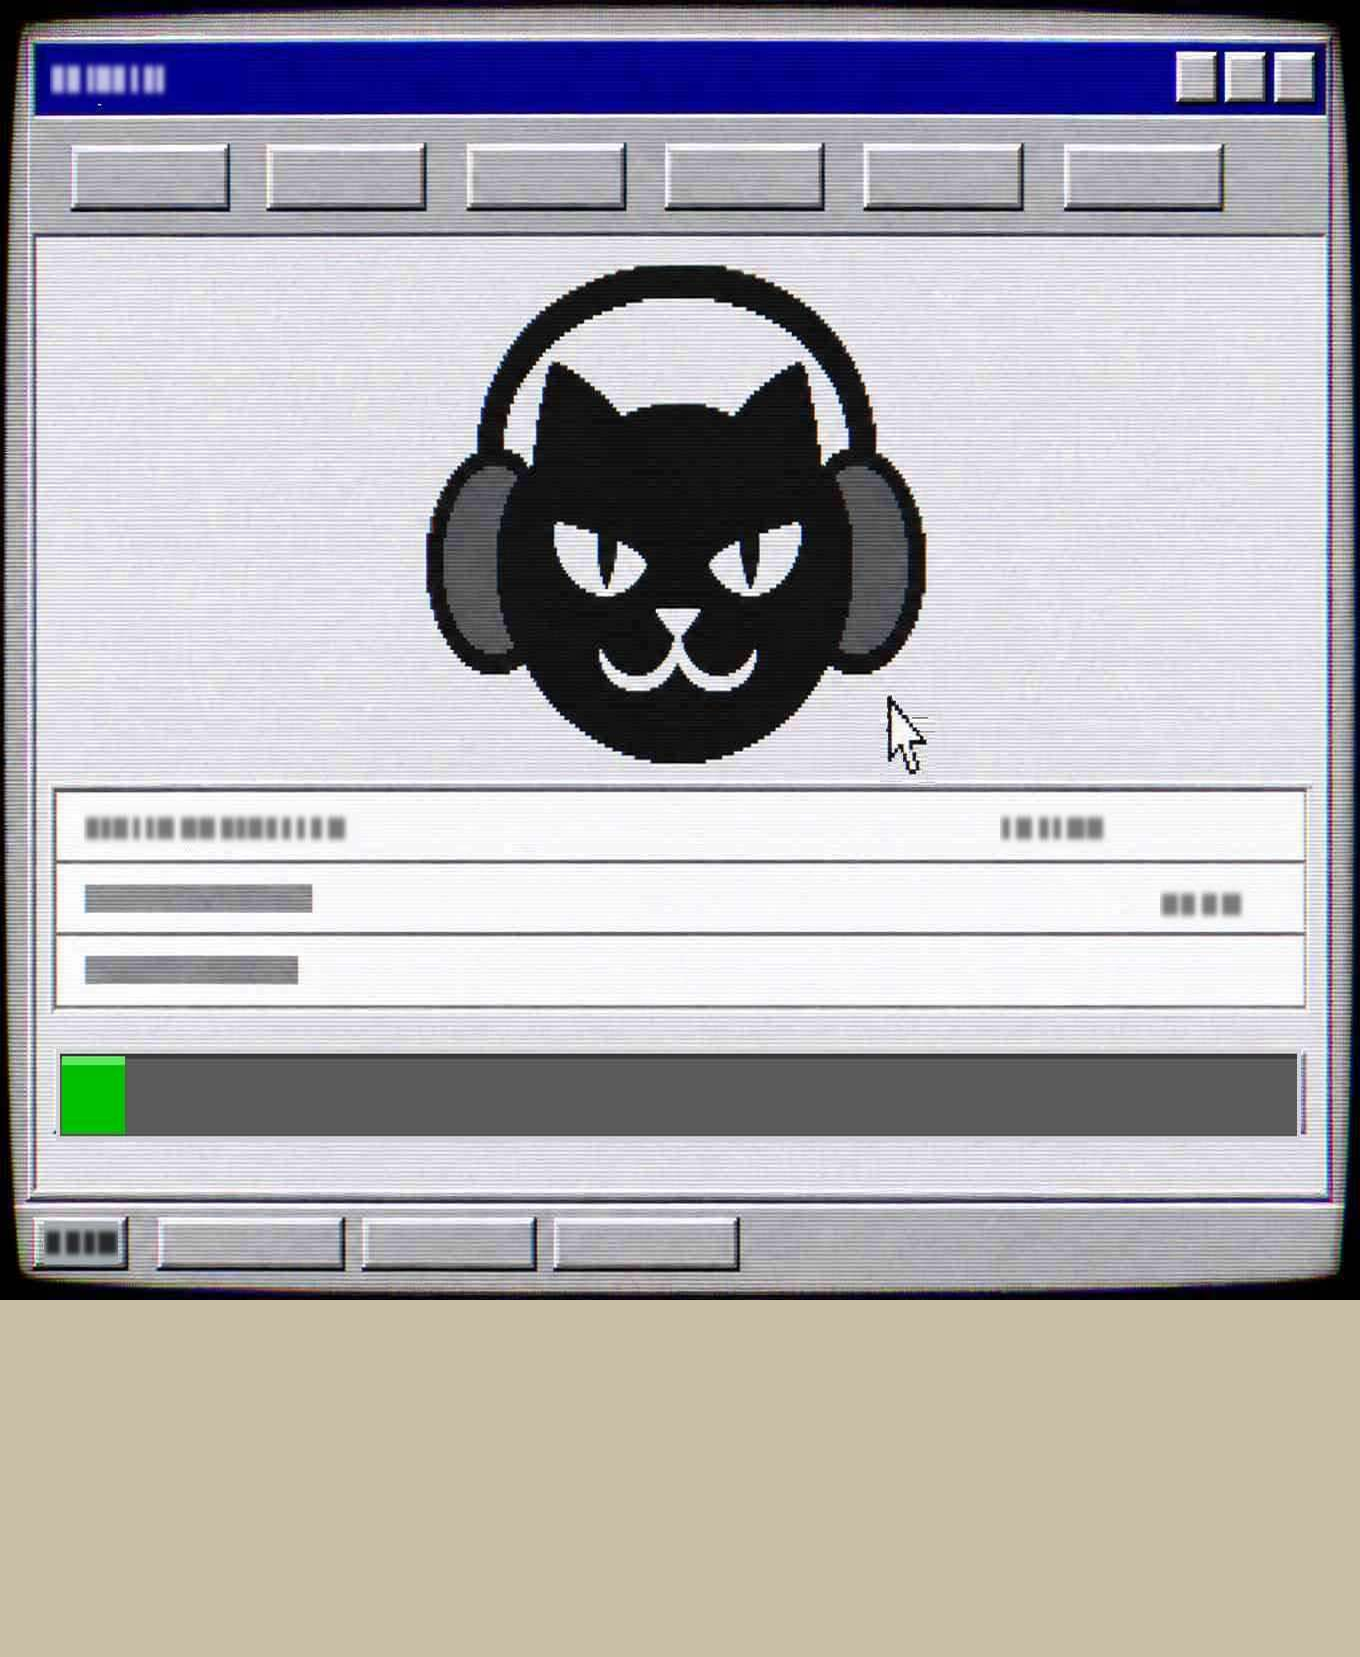
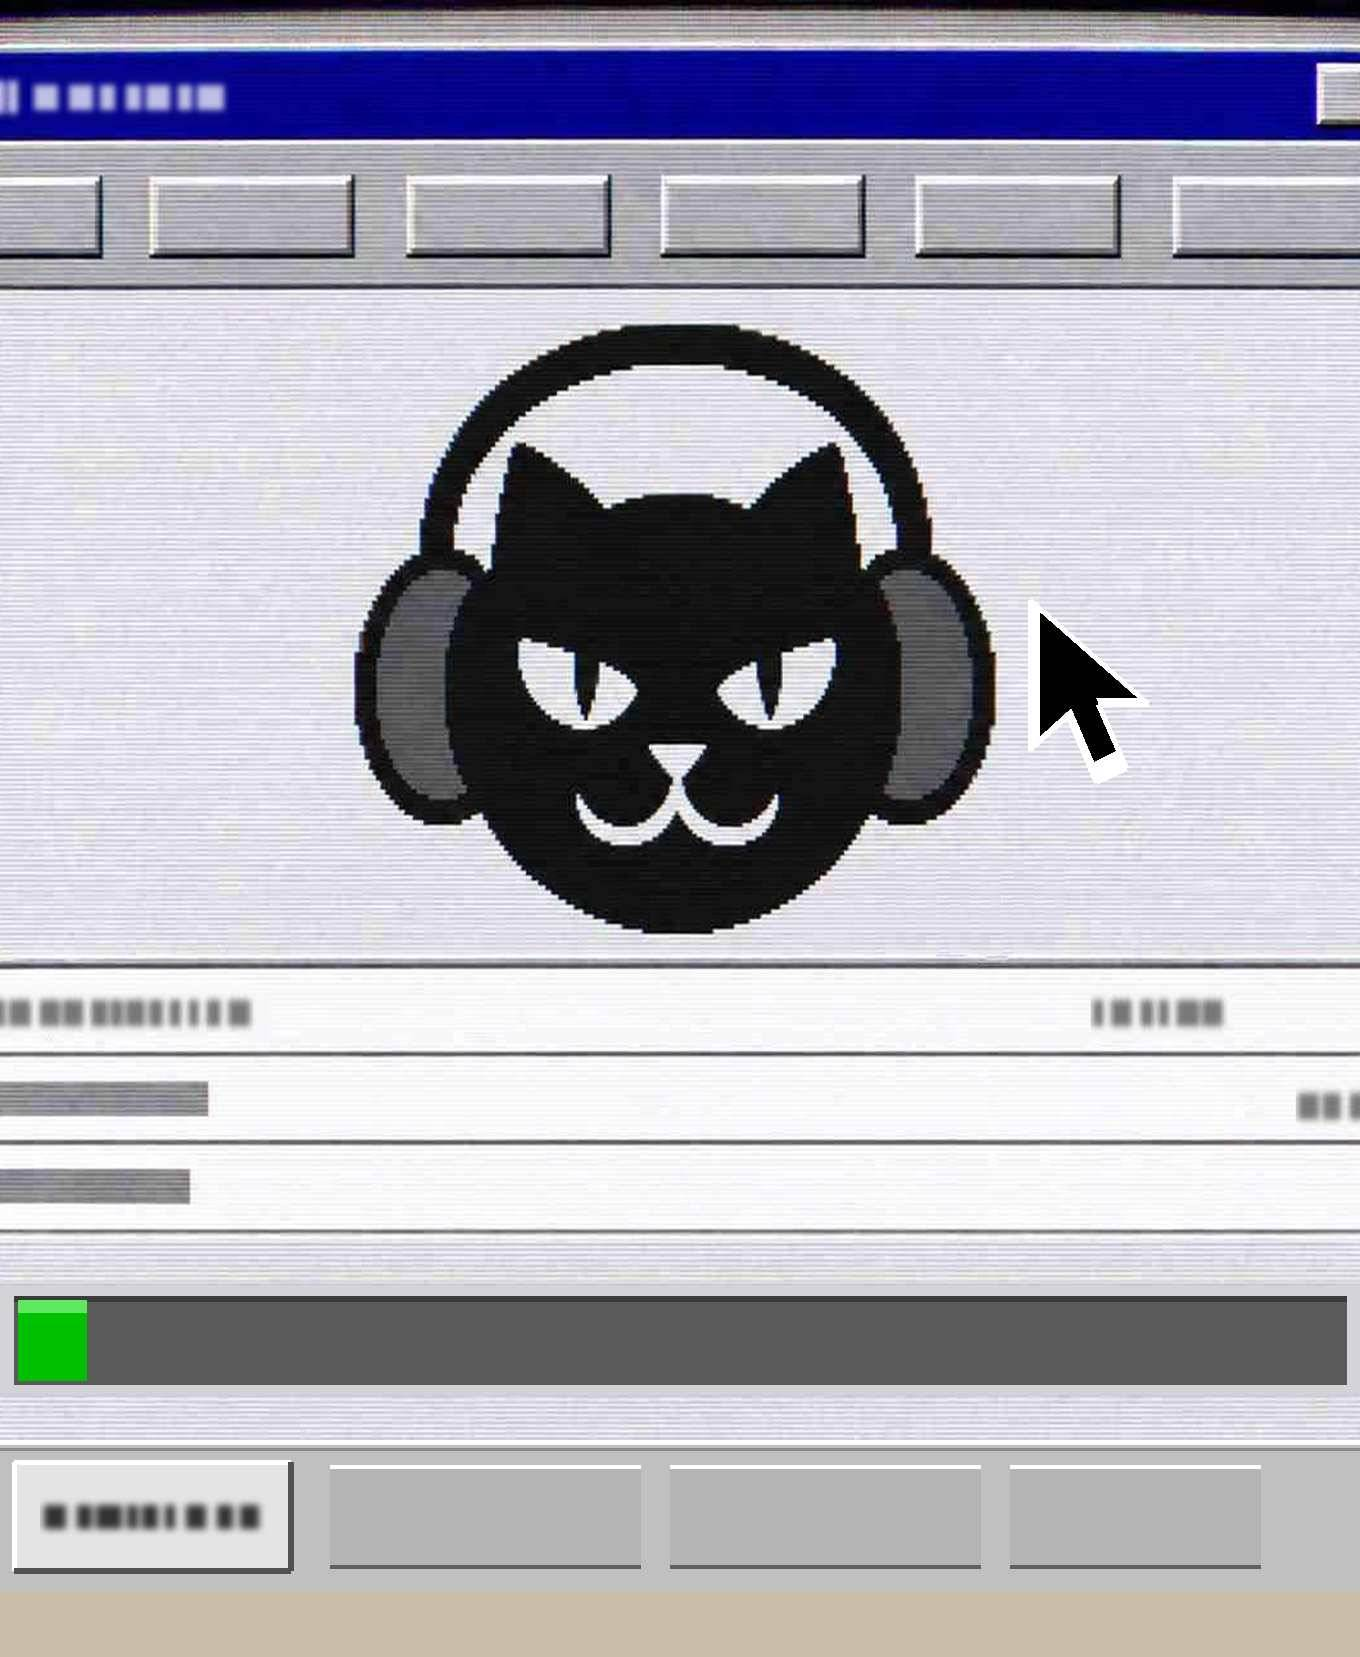
fix(asset team): Napster NFT R3, screenshot fills window, bigger cursor and taskbar; nft_slab --curl-corner flag (default unchanged)
Claude-Session: https://claude.ai/code/session_01Rk2Ri3vAu7TBhRadSU9CbJ

diff --git a/Tools/item3d/nft_slab.py b/Tools/item3d/nft_slab.py
@@ -42,7 +42,7 @@ def rot_paste(base, layer, center, angle):
     base.alpha_composite(r, (int(center[0] - r.width / 2), int(center[1] - r.height / 2)))
 
 
-def build_face(art_path, out_path):
+def build_face(art_path, out_path, curl_corner="bl"):
     rnd = random.Random(1999)
     img = Image.new("RGBA", (W, H), CASE + (255,))
     g = np.linspace(0.97, 1.02, H)[:, None, None]          # sheen, wrong on purpose (dull top, glossy bottom)
@@ -76,8 +76,11 @@ def build_face(art_path, out_path):
     l, t = (art.width - cw) // 2, (art.height - ch) // 2
     card = art.crop((l, t, l + cw, t + ch))
     cd = ImageDraw.Draw(card)                                              # curled corner (lower left) lifts off
-    cd.polygon([(0, ch - 70), (70, ch), (0, ch)], fill=(236, 238, 238, 255))
-    cd.line([(0, ch - 70), (70, ch)], fill=(120, 125, 128, 255), width=2)
+    tri = {"bl": [(0, ch - 70), (70, ch), (0, ch)], "br": [(cw, ch - 70), (cw - 70, ch), (cw, ch)],
+           "tl": [(0, 70), (70, 0), (0, 0)], "tr": [(cw, 70), (cw - 70, 0), (cw, 0)]}.get(curl_corner)
+    if tri:
+        cd.polygon(tri, fill=(236, 238, 238, 255))
+        cd.line([tri[0], tri[1]], fill=(120, 125, 128, 255), width=2)
     cs = Image.new("RGBA", (cw + 20, ch + 20), (0, 0, 0, 0))
     cs.paste(Image.new("RGBA", (cw, ch), (40, 50, 55, 120)), (14, 14)); cs = cs.filter(ImageFilter.GaussianBlur(5))
     wc = ((wx0 + wx1) / 2 + 6, (wy0 + wy1) / 2 + 2)
@@ -151,10 +154,11 @@ def main():
     ap = argparse.ArgumentParser()
     ap.add_argument("--art", required=True); ap.add_argument("--out", required=True)
     ap.add_argument("--work", default="tmp_nft"); ap.add_argument("--tilt", default="40")
+    ap.add_argument("--curl-corner", default="bl", choices=["bl", "br", "tl", "tr", "none"])
     a = ap.parse_args()
     os.makedirs(a.work, exist_ok=True)
     face, glb = os.path.join(a.work, "slab_face.png"), os.path.join(a.work, "slab.glb")
-    build_face(a.art, face)
+    build_face(a.art, face, a.curl_corner.replace("-", "_"))
     wait_for_blender()
     subprocess.run([BLENDER, "-b", "--python", os.path.join(HERE, "card_slab.py"), "--", face, glb, a.tilt,
                     str(SLAB_W), str(SLAB_T), "0", "1.0"], check=True)
